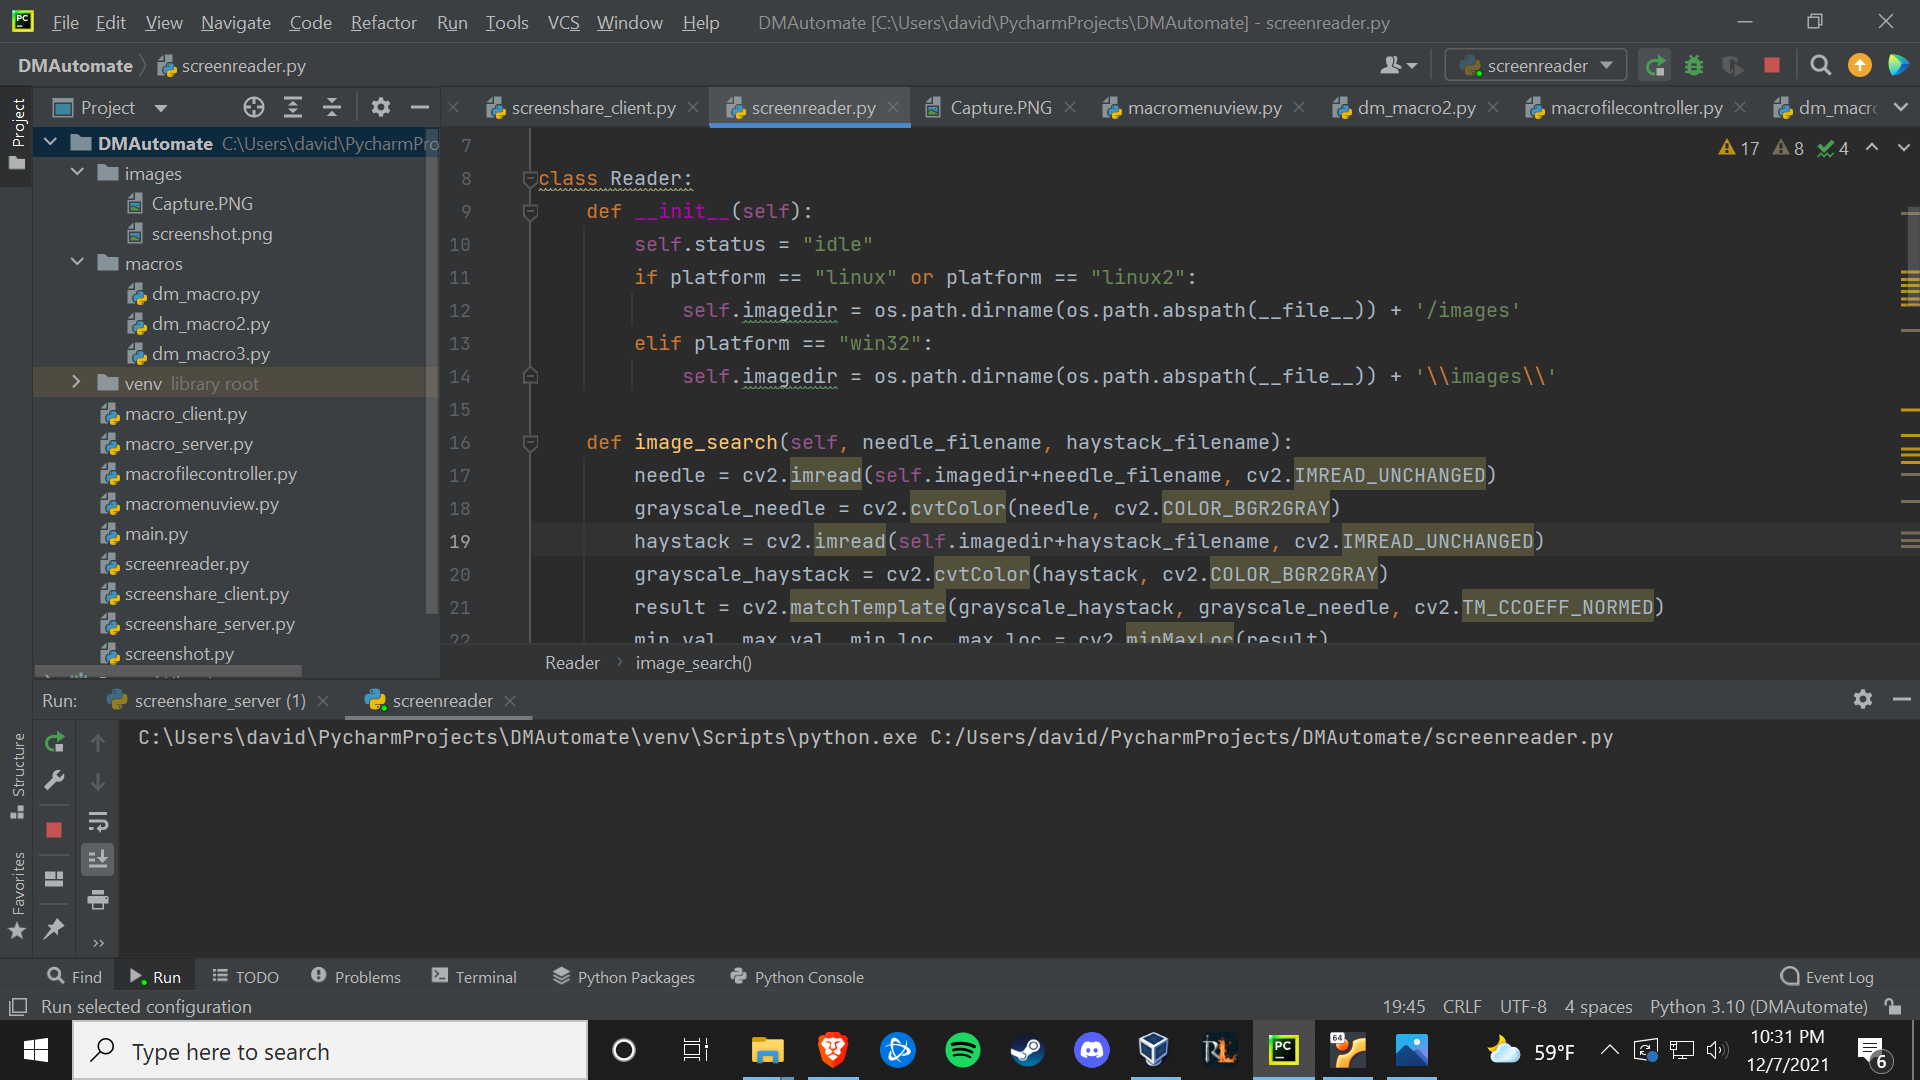
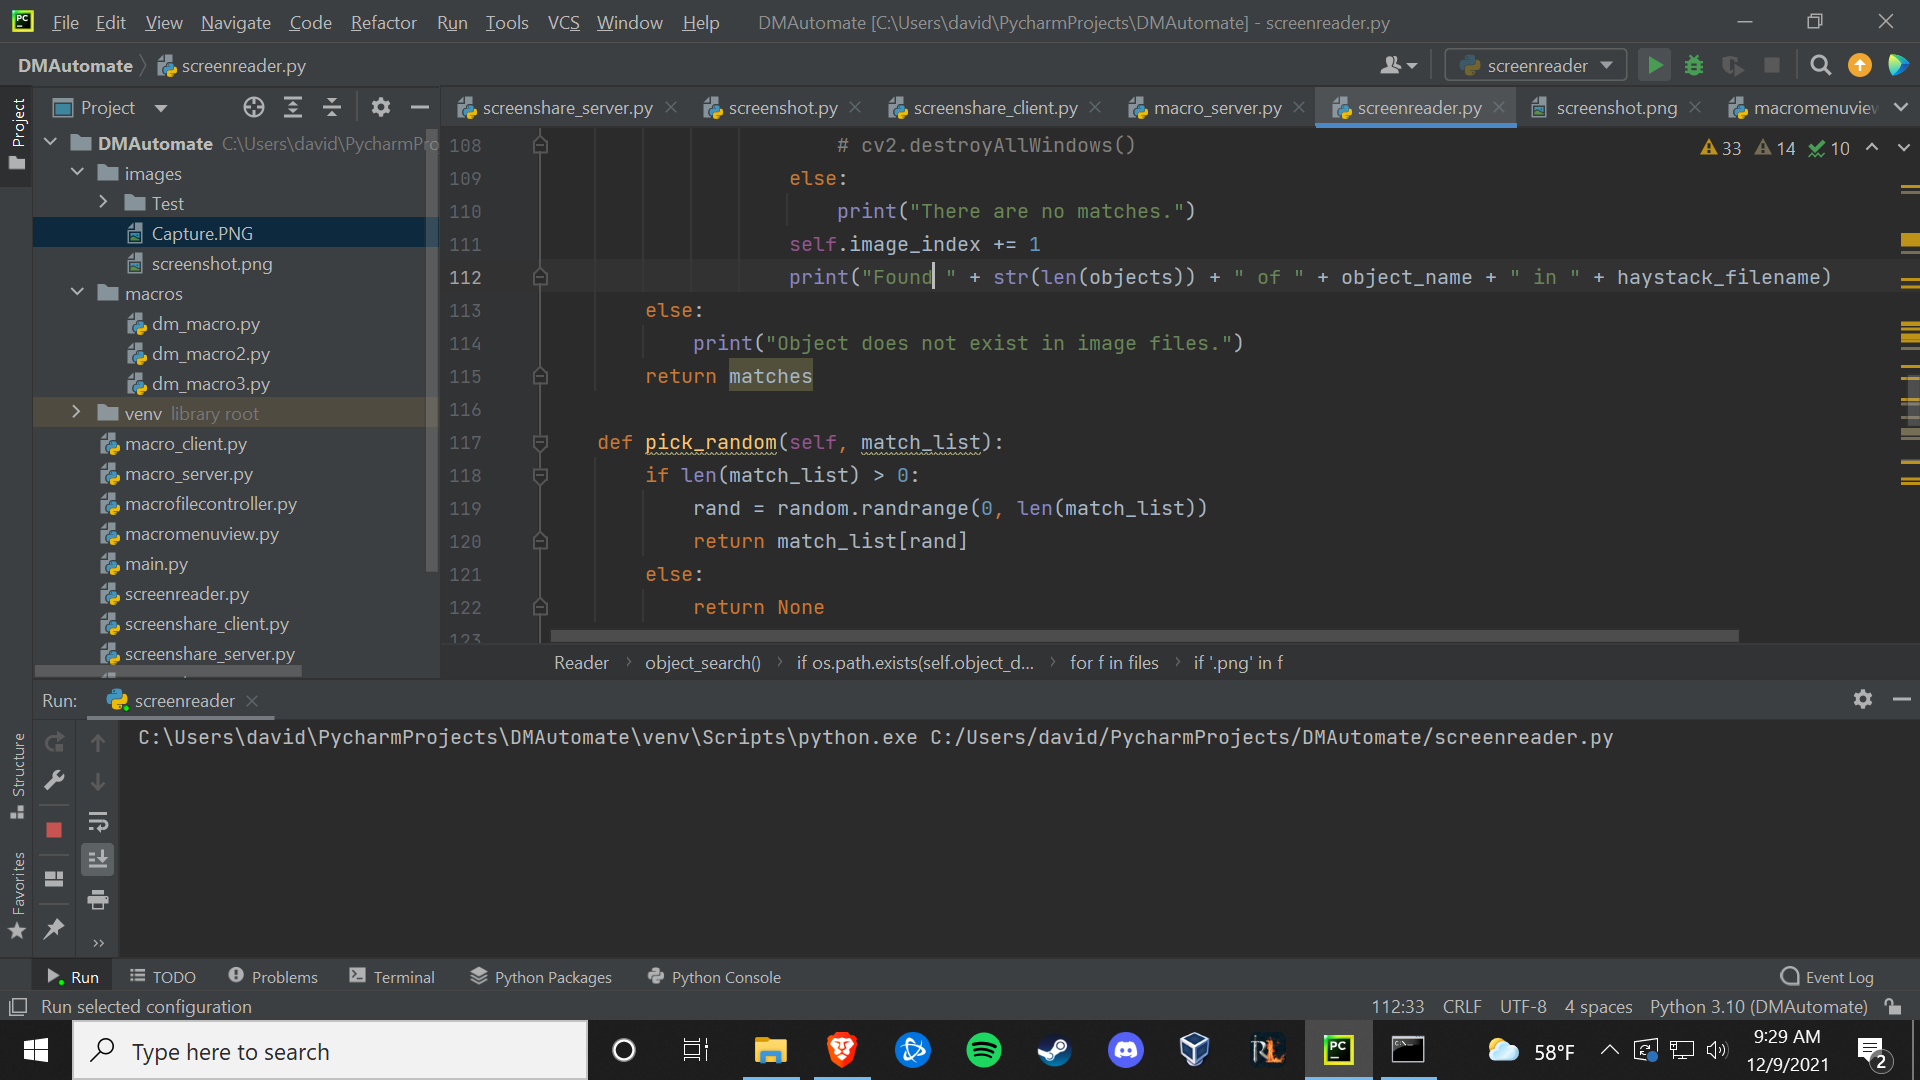
Added object_on_mouse and object_search functions.  Object on mouse takes an image of an object under the mouse cursor.  The object search returns an array of all of the occurances of an object in an image.  This function iterates through all images of the object.

diff --git a/screenreader.py b/screenreader.py
@@ -1,17 +1,34 @@
+import time
+
 import pyautogui
 import cv2
 import numpy as np
 import os
 import random
+from pynput import keyboard
+from pynput import mouse
+from pynput.mouse import Button as mouseButton
 from sys import platform
 
 class Reader:
     def __init__(self):
         self.status = "idle"
+        self.running = False
+        self.listeners = False
+        self.start_button = '`'
+        self.object_on_mouse = 'Test'
         if platform == "linux" or platform == "linux2":
             self.imagedir = os.path.dirname(os.path.abspath(__file__)) + '/images'
         elif platform == "win32":
             self.imagedir = os.path.dirname(os.path.abspath(__file__)) + '\\images\\'
+        self.object_directory = ''
+        self.currentMouseX, self.currentMouseY = pyautogui.position()
+        self.prevMouseX = 0
+        self.prevMouseY = 0
+        self.crop_size = 32
+        self.image_index = 0
+        self.lastTimestamp = round(time.perf_counter(), 3)
+        self.deltaTime = round((time.perf_counter() - self.lastTimestamp), 1)
 
     def image_search(self, needle_filename, haystack_filename):
         needle = cv2.imread(self.imagedir+needle_filename, cv2.IMREAD_UNCHANGED)
@@ -27,41 +44,185 @@ class Reader:
         # Threshold is the % accuracy compared to original needle
         threshold = .80
         yloc, xloc = np.where(result >= threshold)
-        print("There are {0} total matches in the haystack.".format(len(xloc)))
         # Keep track of all matches and identify unique cases
         matches = []
-        for (x, y) in zip(xloc, yloc):
-            # Twice to ensure singles are kept after picking unique cases
-            matches.append([int(x), int(y), int(width), int(height)])
-            matches.append([int(x), int(y), int(width), int(height)])
-        # Grouping function
-        matches, weights = cv2.groupRectangles(matches, 1, 0.2)
-        print("There are {0} unique matches in the haystack.".format(len(matches)))
-        # Display image with rectangle
-        for (x, y, width, height) in matches:
-            cv2.rectangle(haystack, (x, y), (x + width, y + height), (255, 255, 0), 2)
+        if len(xloc) > 0:
+            print("There are {0} total matches in the haystack.".format(len(xloc)))
+            for (x, y) in zip(xloc, yloc):
+                # Twice to ensure singles are kept after picking unique cases
+                matches.append([int(x), int(y), int(width), int(height)])
+                matches.append([int(x), int(y), int(width), int(height)])
+            # Grouping function
+            matches, weights = cv2.groupRectangles(matches, 1, 0.2)
+            print("There are {0} unique matches in the haystack.".format(len(matches)))
+            # Display image with rectangle
+            for (x, y, width, height) in matches:
+                cv2.rectangle(haystack, (x, y), (x + width, y + height), (255, 255, 0), 2)
+            # cv2.imshow('Haystack', haystack)
+            # cv2.waitKey()
+            # cv2.destroyAllWindows()
+        else:
+            print("There are no matches.")
         return matches
-        cv2.imshow('Haystack', haystack)
-        cv2.waitKey()
-        cv2.destroyAllWindows()
+
+    def object_search(self, object_name, haystack_filename):
+        self.object_directory = os.path.join(self.imagedir, object_name)
+        # Keep track of all matches and identify unique cases
+        objects = []
+        if os.path.exists(self.object_directory):
+            files = os.listdir(self.object_directory)
+            # Threshold is the % accuracy compared to original needle
+            threshold = .95
+            self.image_index = 1
+            haystack = cv2.imread(self.imagedir + haystack_filename, cv2.IMREAD_UNCHANGED)
+            grayscale_haystack = cv2.cvtColor(haystack, cv2.COLOR_BGR2GRAY)
+            for f in files:
+                if '.png' in f:
+                    matches = []
+                    image_path = os.path.join(self.object_directory, object_name+str(self.image_index)+'.png')
+                    needle = cv2.imread(image_path, cv2.IMREAD_UNCHANGED)
+                    grayscale_needle = cv2.cvtColor(needle, cv2.COLOR_BGR2GRAY)
+                    result = cv2.matchTemplate(grayscale_haystack, grayscale_needle, cv2.TM_CCOEFF_NORMED)
+                    min_val, max_val, min_loc, max_loc = cv2.minMaxLoc(result)
+                    # Max location has the best match with max_val to be % accuracy
+                    width = needle.shape[1]
+                    height = needle.shape[0]
+                    bottom_right = (max_loc[0] + width, max_loc[1] + height)
+                    yloc, xloc = np.where(result >= threshold)
+                    if len(xloc) > 0:
+                        print("There are {0} total matches in the haystack.".format(len(xloc)))
+                        for (x, y) in zip(xloc, yloc):
+                            # Twice to ensure singles are kept after picking unique cases
+                            matches.append([int(x), int(y), int(width), int(height)])
+                            matches.append([int(x), int(y), int(width), int(height)])
+                        # Grouping function
+                        matches, weights = cv2.groupRectangles(matches, 1, 0.2)
+                        print("There are {0} unique matches in the haystack.".format(len(matches)))
+                        # Display image with rectangle
+                        for (x, y, width, height) in matches:
+                            if (x, y, width, height) not in objects:
+                                objects.append([int(x), int(y), int(width), int(height)])
+                            cv2.rectangle(haystack, (x, y), (x + width, y + height), (255, 255, 0), 2)
+                        # cv2.imshow('Haystack', haystack)
+                        # cv2.waitKey()
+                        # cv2.destroyAllWindows()
+                    else:
+                        print("There are no matches.")
+                    self.image_index += 1
+                    print("Found " + str(len(objects)) + " of " + object_name + " in " + haystack_filename)
+        else:
+            print("Object does not exist in image files.")
+        return matches
 
     def pick_random(self, match_list):
-        rand = random.randrange(0, len(match_list))
-        return match_list[rand]
+        if len(match_list) > 0:
+            rand = random.randrange(0, len(match_list))
+            return match_list[rand]
+        else:
+            return None
 
     def center_pos(self, single_match):
-        left = int(single_match[0] + (single_match[2]*3/8))
-        right = int(single_match[0] + (single_match[2]*5/8))
-        top = int(single_match[1] + (single_match[3]*3/8))
-        bottom = int(single_match[1] + (single_match[3]*5/8))
-        randX = random.randrange(left, right)
-        randY = random.randrange(top, bottom)
-        return (randX, randY)
+        if single_match is not None:
+            left = int(single_match[0] + (single_match[2]*3/8))
+            right = int(single_match[0] + (single_match[2]*5/8))
+            top = int(single_match[1] + (single_match[3]*3/8))
+            bottom = int(single_match[1] + (single_match[3]*5/8))
+            randX = random.randrange(left, right)
+            randY = random.randrange(top, bottom)
+            return (randX, randY)
+
+    def on_move(self, x, y):
+        if self.running:
+            # Get mouse position
+            self.currentMouseX, self.currentMouseY = pyautogui.position()
+            mousedistance = ((self.currentMouseX - self.prevMouseX) + (self.currentMouseY - self.prevMouseY))
+            # Check to see mouse has moved far enough and also only goes at most every second
+            self.delta_time(False)
+            if mousedistance > 20 and self.deltaTime > 1:
+                # Set previous time
+                self.delta_time(True)
+                # Takes screenshot, crops it to specified size, and saves under object_directory
+                screenshot = pyautogui.screenshot()
+                image = cv2.cvtColor(np.array(screenshot), cv2.COLOR_RGB2BGR)
+                x = int(self.currentMouseX - (self.crop_size / 2))
+                y = int(self.currentMouseY - (self.crop_size / 2))
+                w = x+int(self.crop_size)
+                h = y+int(self.crop_size)
+                cropped_image = image[x:w, y:h]
+                # cv2.imshow('Cropped', cropped_image)
+                if platform == "linux" or platform == "linux2":
+                    cv2.imwrite(self.object_directory+'/'+self.object_on_mouse+str(self.image_index)+'.png', cropped_image)
+                elif platform == "win32":
+                    cv2.imwrite(self.object_directory+'\\'+self.object_on_mouse+str(self.image_index)+'.png', cropped_image)
+                self.image_index += 1
+                print('There are '+str(self.image_index)+' images of '+self.object_on_mouse)
+                # print('Mouse moved to {0}'.format((x, y)))
+
+    def delta_time(self, set_last):
+        # Calc delta time to save to macro
+        self.deltaTime = round((time.perf_counter()-self.lastTimestamp), 1)
+        if set_last:
+            self.lastTimestamp = round(time.perf_counter(), 3)
+
+    def on_click(self, x, y, button, pressed):
+        if self.running:
+            if pressed:
+                # Get mouse position
+                self.currentMouseX, self.currentMouseY = pyautogui.position()
+            print('Mouse '+str(button)+' {0} at {1}'.format('pressed' if pressed else 'released', (x, y)))
+            if not pressed:
+                # Stop listener
+                return False
+
+    def on_release(self, key):
+        try:
+            if key.char == self.start_button and self.running:
+                self.running = False
+                print("Stopped watching {0}".format(self.object_on_mouse))
+            elif key.char == self.start_button:
+                print("What object are you showing me under the mouse cursor?")
+                # self.object_on_mouse = input()
+                print("How big is it?")
+                # Just crops box of this size from screenshot
+                # self.crop_size = input()
+                print("Watching {0}".format(self.object_on_mouse))
+                self.object_directory = os.path.join(self.imagedir, self.object_on_mouse)
+                if not os.path.exists(self.object_directory):
+                    os.mkdir(self.object_directory)
+                files = os.listdir(self.object_directory)
+                self.image_index = 1
+                for f in files:
+                    if '.png' in f:
+                        self.image_index += 1
+                self.running = True
+        except AttributeError:
+            print('Unique key {0} pressed'.format(key))
+
+    def on_press(self, key):
+        if self.running:
+            print('{0} pressed'.format(key))
+
+    def activate_listeners(self):
+        self.listeners = True
+        # Listeners are responsible for mouse/keyboard input
+        listener = keyboard.Listener(
+            on_press=self.on_press,
+            on_release=self.on_release)
+        listener.start()
+
+        listener = mouse.Listener(
+            on_move=self.on_move,
+            on_click=self.on_click)
+        listener.start()
 
 
 reader = Reader()
+reader.activate_listeners()
 screenshot = pyautogui.screenshot(reader.imagedir+'screenshot.png')
-match_list = reader.image_search('Capture.PNG', 'screenshot.png')
-rand_match = reader.pick_random(match_list)
+match_list = reader.object_search('Test', 'screenshot.png')
+match_list2 = reader.image_search('Capture.PNG', 'screenshot.png')
+rand_match = reader.pick_random(match_list2)
 pyautogui.moveTo(reader.center_pos(rand_match))
-print("Picked : "+str(rand_match))
+print("Picked: "+str(rand_match))
+while True:
+    continue
